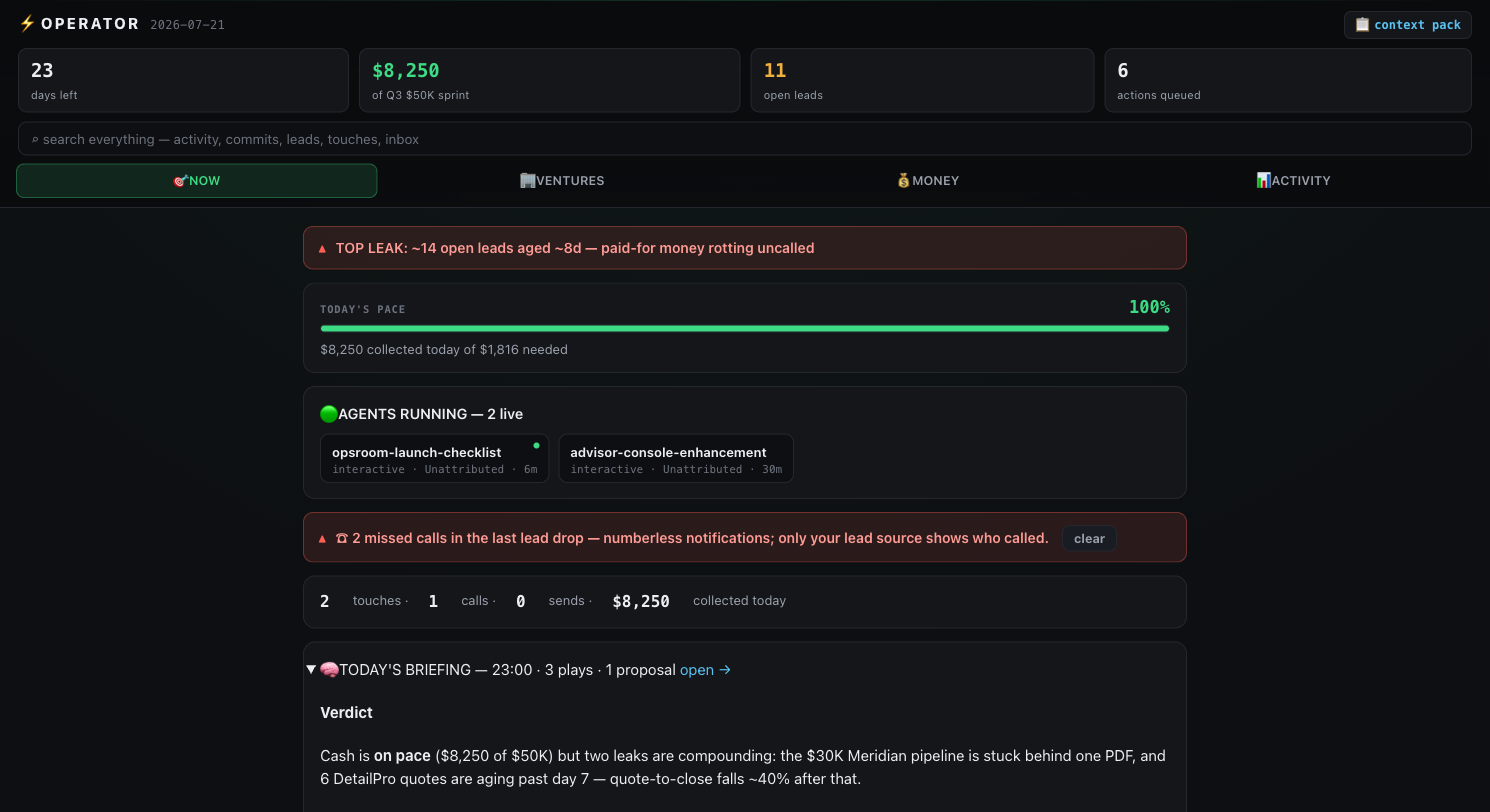
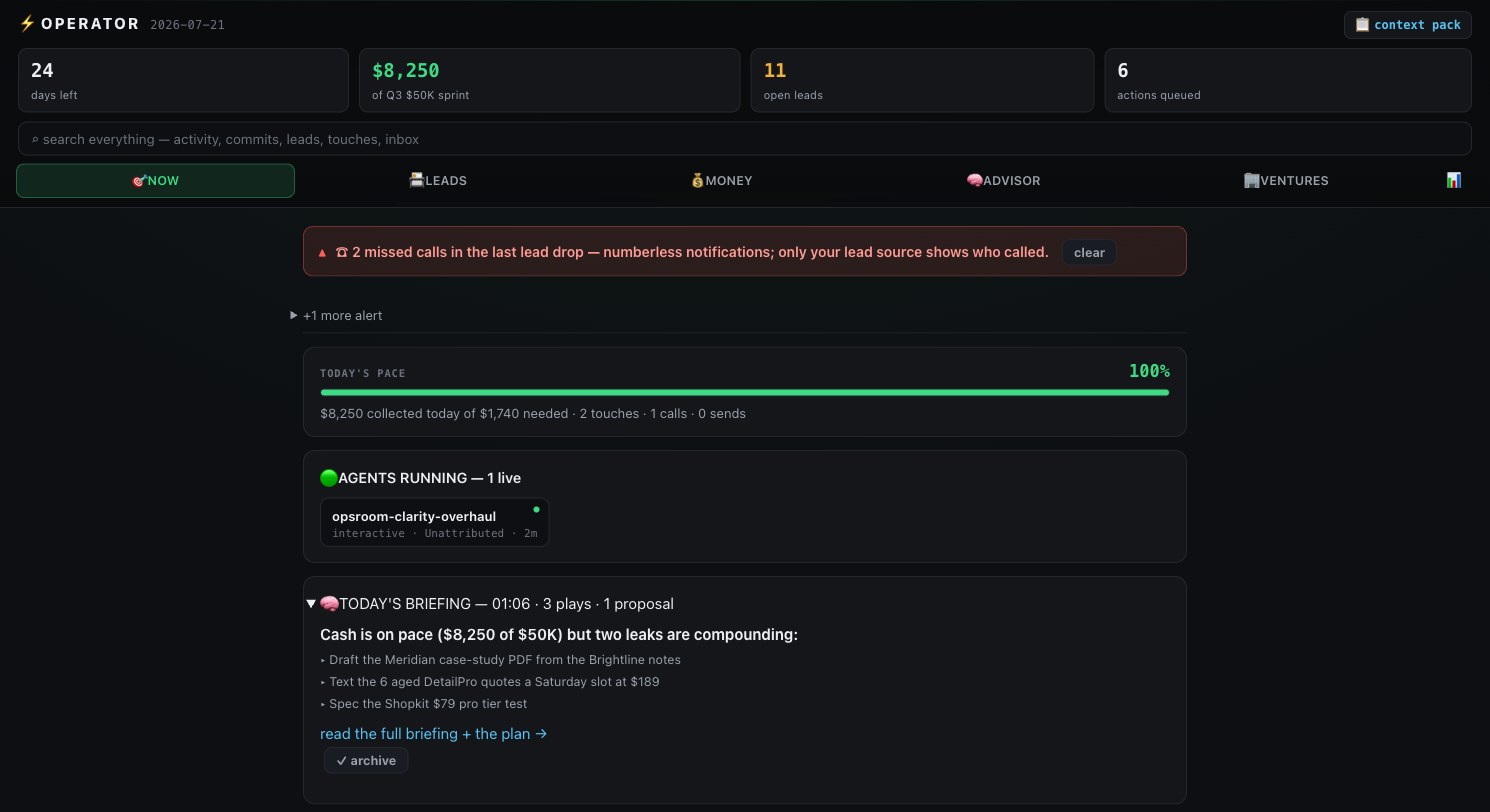
v0.11.0 'the operator's cockpit' — version, launch assets, copy
Fresh console-now.png (folded NOW: one alert, verdict briefing, 4-row DO NOW)
+ new console-pipeline.png (the stage board); Show HN copy sells the pipeline;
briefing verdict strips raw markdown markers.

diff --git a/opsroom/__init__.py b/opsroom/__init__.py
@@ -1,2 +1,2 @@
 """opsroom — local-first operator console. See https://github.com/malekadjeb-ai/opsroom"""
-__version__ = "0.10.2"
+__version__ = "0.11.0"

diff --git a/opsroom/dashboard.py b/opsroom/dashboard.py
@@ -1131,6 +1131,7 @@ def _counsel_card(sx) -> str:
     for line in (row["answer"] or "").splitlines():
         line = line.strip()
         if line and not line.startswith(("#", "-", "*", "`", ">")):
+            line = line.replace("**", "").replace("__", "")  # plain text, not raw markdown
             verdict = line[:220] + ("…" if len(line) > 220 else "")
             break
     plays = "".join(

diff --git a/docs/launch/show-hn.md b/docs/launch/show-hn.md
@@ -41,8 +41,10 @@ leads to call — each row DOable in place:
   instead of colliding.
 - A live **AGENTS RUNNING** panel that reads which Claude Code sessions are alive
   right now (interactive, cowork, background), attributed per venture.
-- A full **leads workspace** — every lead ever captured, searchable, sortable by
-  age or quote size, each one dispatchable with its history baked into the brief.
+- A full **PIPELINE board** — every lead ever captured in a real stage (new →
+  contacted → talking → quoted → won/lost) with live counts, source pills, and
+  age as temperature; each one dispatchable with its history baked into the
+  brief, and agents can propose stage moves you approve with one tap.
 
 The newest piece closes the loop in the other direction: **agents propose, you
 approve, the ledger moves**. When a dispatched agent finishes, opsroom parses its